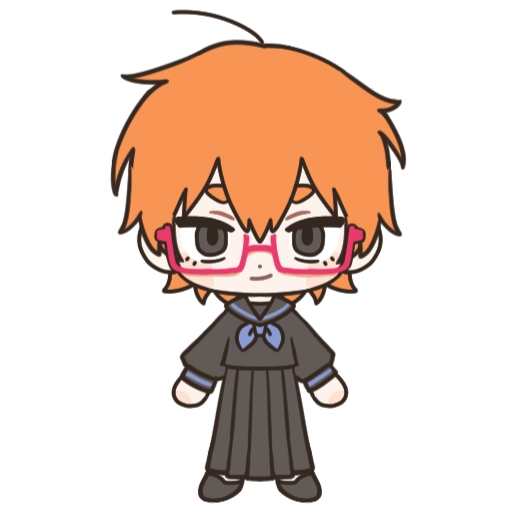
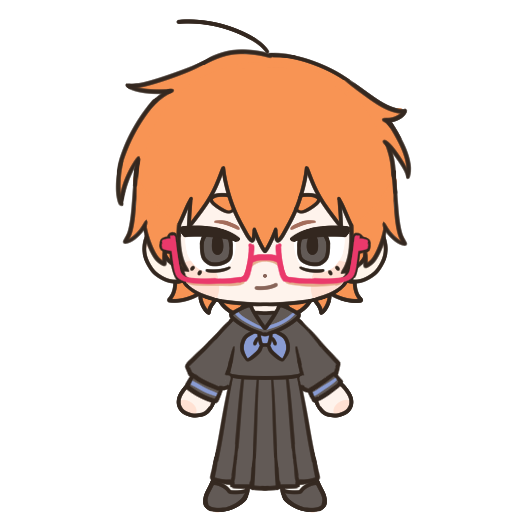
Add files via upload

Changed region(s): [[0.2183, 0.0, 0.8109, 0.9981], [0.3743, 0.6238, 0.4055, 0.655]]

diff --git a/mypage.html b/mypage.html
@@ -4025,13 +4025,18 @@ async function loadSangkwanWardrobe() {
     const data =
         characterSnap.data();
 
-        const equippedOutfit =
+    const equippedOutfit =
     data.equippedOutfit || "default";
 
 if (equippedOutfit === "default") {
 
     sangkwanCharacterImage.src =
         "images/sangkwan.png";
+
+} else if (equippedOutfit === "default2") {
+
+    sangkwanCharacterImage.src =
+        "images/sangkwan2.png";
 
 } else {
 
@@ -4072,14 +4077,61 @@ defaultItem.innerHTML = `
     <div class="sangkwan-wardrobe-item-image">
         <img
             src="images/sangkwan.png"
-            alt="기본 모습"
+            alt="기본(안경O)"
         >
     </div>
 
     <div class="sangkwan-wardrobe-item-name">
-        기본 모습
+        기본(안경O)
     </div>
 `;
+
+
+const defaultItem2 = document.createElement("div");
+
+defaultItem2.className =
+    "sangkwan-wardrobe-item";
+
+defaultItem2.innerHTML = `
+    <div class="sangkwan-wardrobe-item-image">
+        <img
+            src="images/sangkwan2.png"
+            alt="기본(안경X)"
+        >
+    </div>
+
+    <div class="sangkwan-wardrobe-item-name">
+        기본(안경X)
+    </div>
+`;
+
+defaultItem2.addEventListener(
+    "click",
+    async () => {
+
+        const characterRef =
+            doc(
+                db,
+                "characters",
+                CHARACTER_ID
+            );
+
+        await setDoc(
+            characterRef,
+            {
+                equippedOutfit: "default2"
+            },
+            {
+                merge: true
+            }
+        );
+
+        sangkwanCharacterImage.src =
+            "images/sangkwan2.png";
+    }
+);
+
+
 
 defaultItem.addEventListener(
     "click",
@@ -4109,6 +4161,10 @@ defaultItem.addEventListener(
 
 sangkwanWardrobeList.appendChild(
     defaultItem
+);
+
+sangkwanWardrobeList.appendChild(
+    defaultItem2
 );
 
 
@@ -4255,12 +4311,12 @@ async function loadDannaWardrobe() {
         <div class="danna-wardrobe-item-image">
             <img
                 src="images/danna.png"
-                alt="기본 모습"
+                alt="기본"
             >
         </div>
 
         <div class="danna-wardrobe-item-name">
-            기본 모습
+            기본
         </div>
     `;
 
@@ -10854,6 +10910,7 @@ onAuthStateChanged(auth, async (user) => {
         await loadDannaAction();
         await loadDannaExploration();
         await loadSangkwanExploration();
+        await loadSangkwanWardrobe();
 
     } catch (error) {
 
